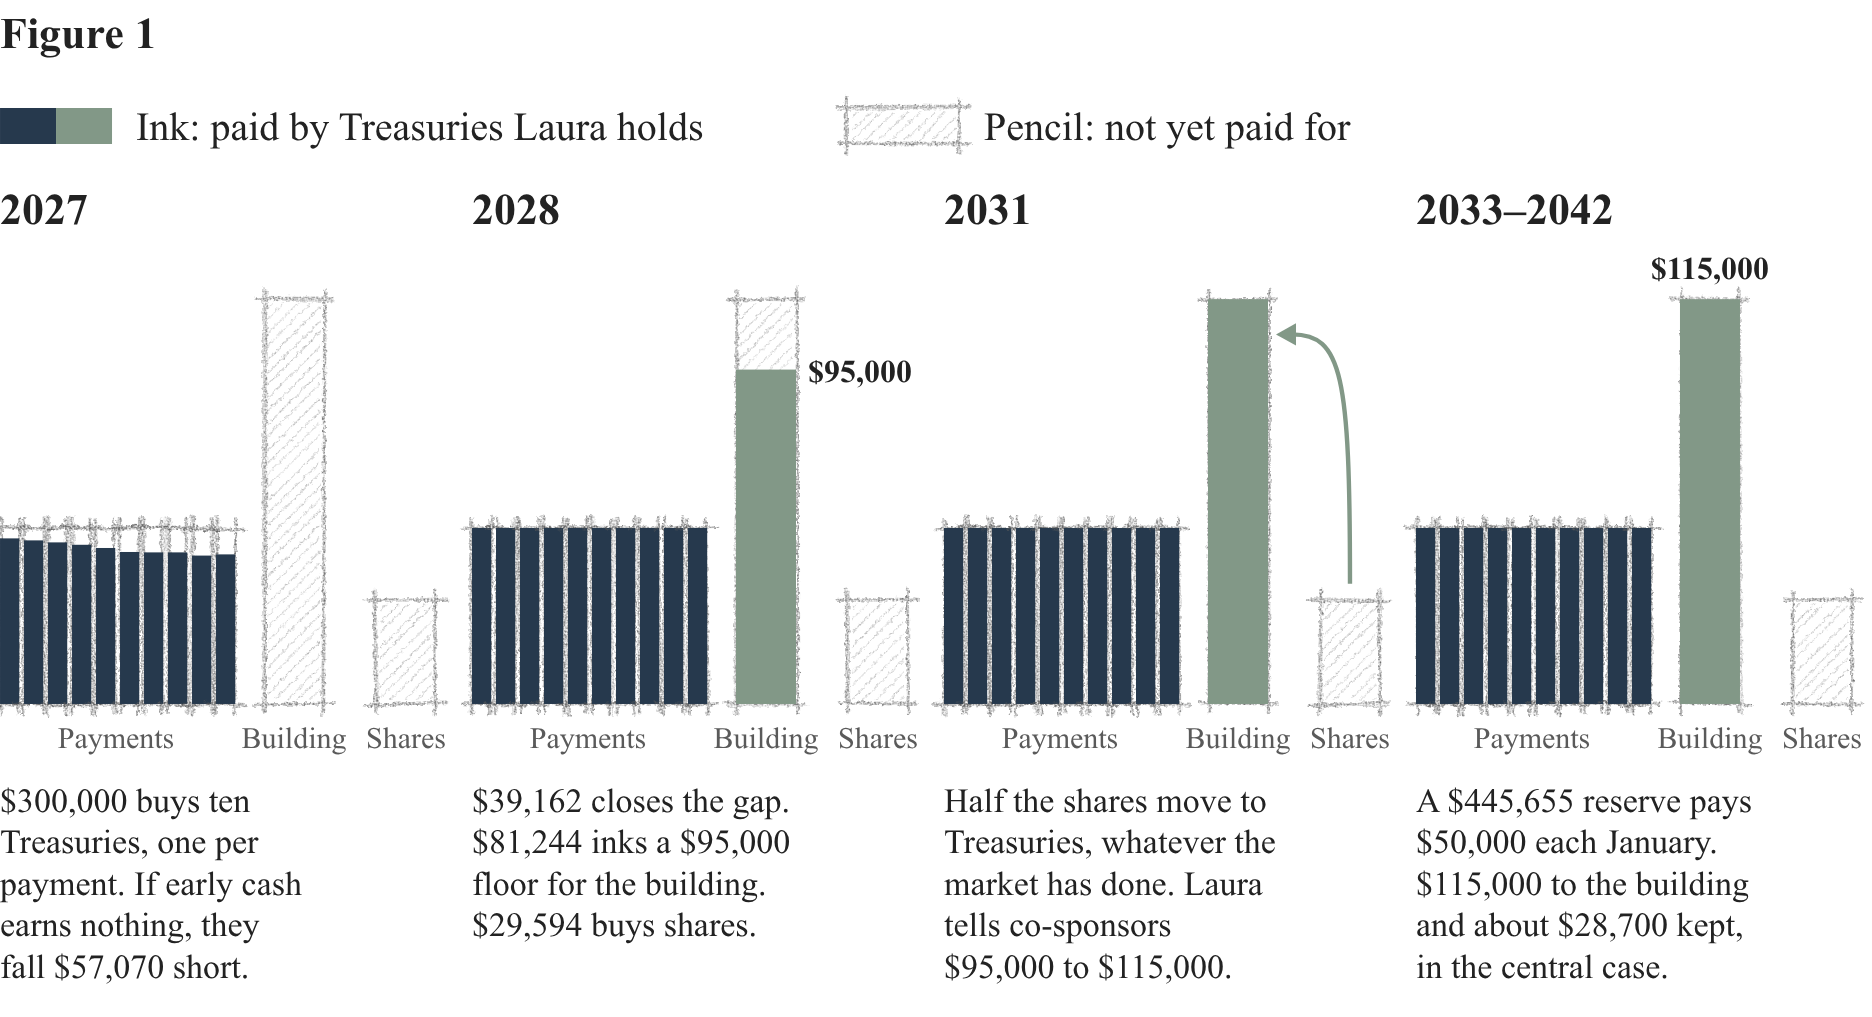
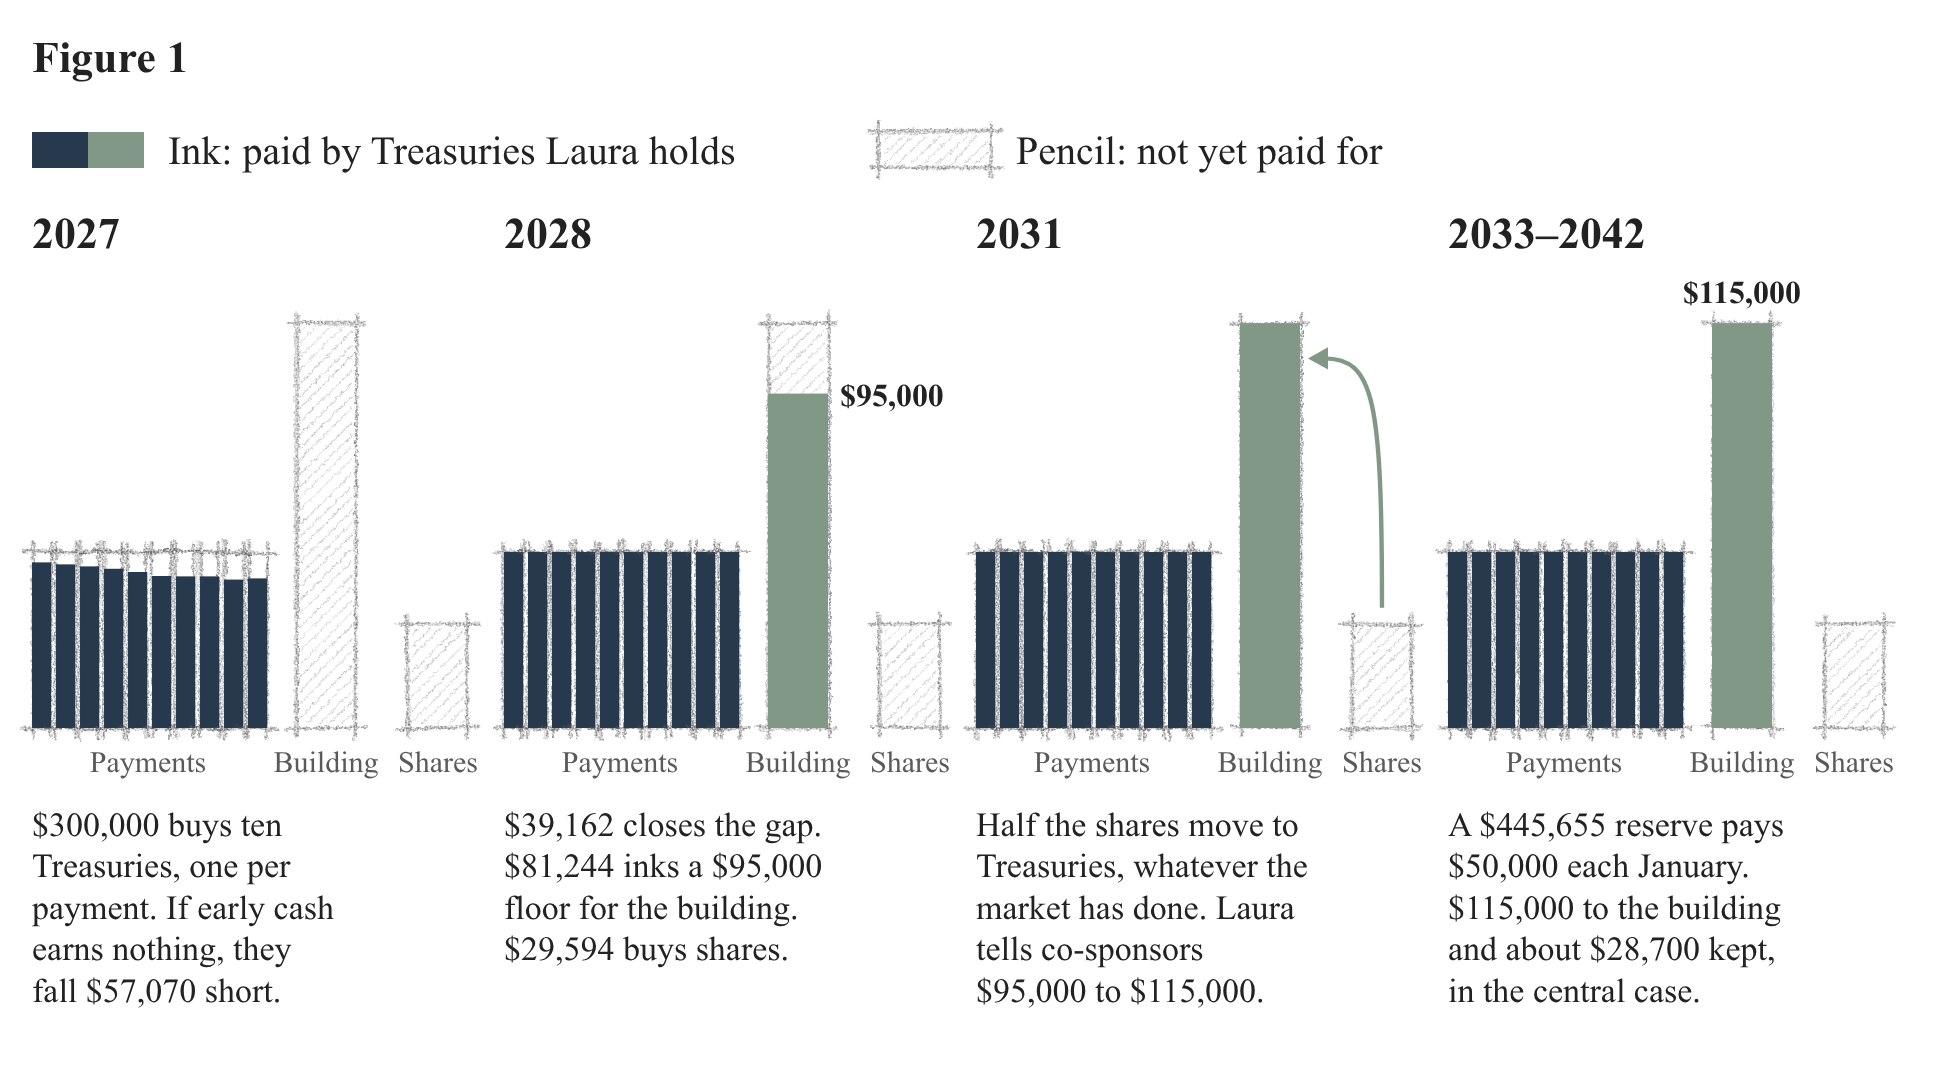
Figure 1: white margin so nothing touches the edge
Claude-Session: https://claude.ai/code/session_01VfCtEvW51v5yKAUtcNmmV9

diff --git a/keel/final_report/charts/flowchart/ink_stages.py b/keel/final_report/charts/flowchart/ink_stages.py
@@ -70,4 +70,4 @@ for x0, yr, st, cap in P:
     if st == 3:
         b.append(t(xb + 7.5, BASE - 115000 * U - 5, "$115,000", 8, "bold", anc="middle"))
 H = BASE + 78
-open("ink_stages.svg", "w").write(f'<svg xmlns="http://www.w3.org/2000/svg" width="{W}pt" height="{H}pt" viewBox="0 0 {W} {H}"><rect width="{W}" height="{H}" fill="#fff"/>' + DEFS + "".join(b) + "</svg>")
+open("ink_stages.svg", "w").write(f'<svg xmlns="http://www.w3.org/2000/svg" width="{W+16}pt" height="{H+12}pt" viewBox="-8 -6 {W+16} {H+12}"><rect x="-8" y="-6" width="{W+16}" height="{H+12}" fill="#fff"/>' + DEFS + "".join(b) + "</svg>")
